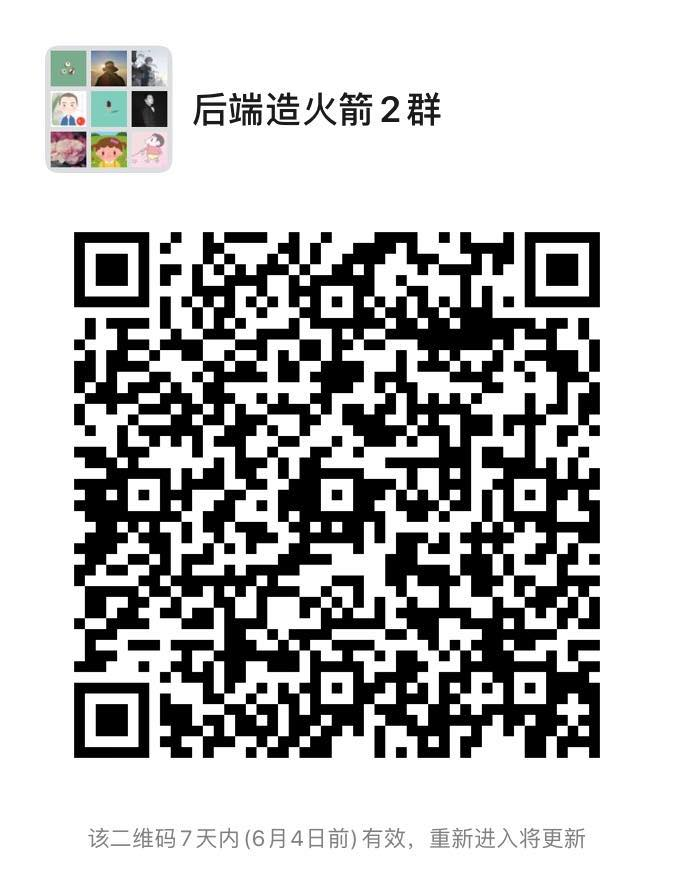
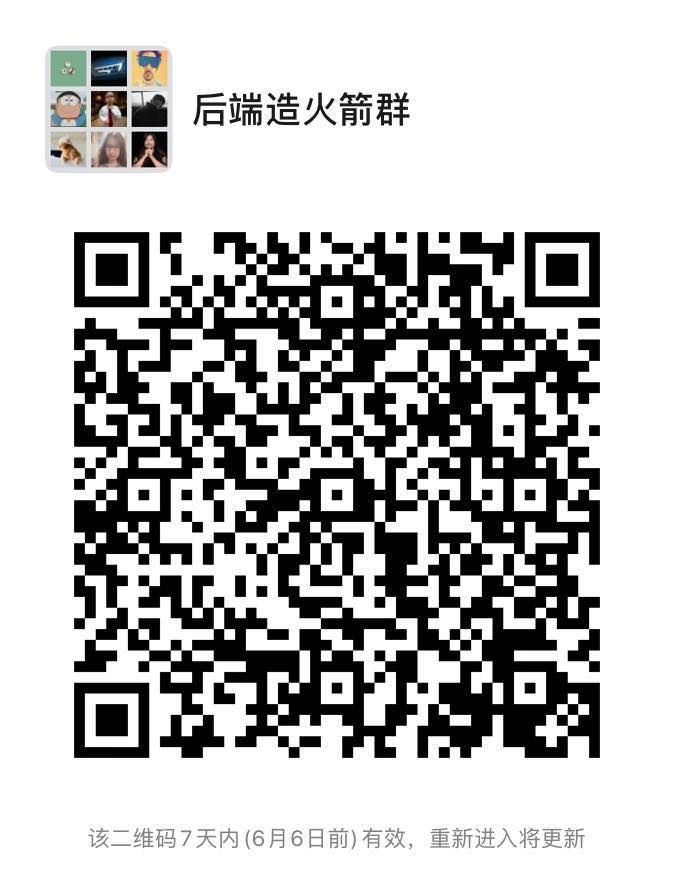
change image

diff --git a/README.md b/README.md
@@ -6,7 +6,9 @@ Github项目主页：https://github.com/NotFound9/interviewGuide
 
 作者博客地址：https://juejin.im/user/5b370a42e51d4558ce5eb969
 
-为了方便技术交流，也建了一个技术交流群，欢迎大家扫码加入！进群看群公告可以领取《面试指北》的PDF版本，一起学习进步！（如果入群二维码过期了，也可以扫描[主页中我的微信二维码](http://notfound9.github.io/interviewGuide/#/)，加我微信，我拉你进群）
+关注我的公众号"大厂面试"，可以领取《面试指北》的PDF版本，为了方便技术交流，也建了一个技术交流群，欢迎大家扫码加入！（如果入群二维码过期了，也可以扫描[主页中我的微信二维码](http://notfound9.github.io/interviewGuide/#/)，加我微信，我拉你进群）
+
+![](http://notfound9.github.io/interviewGuide/static/wdsfsdfsmaster.png)
 
 <figure class="half">
 
